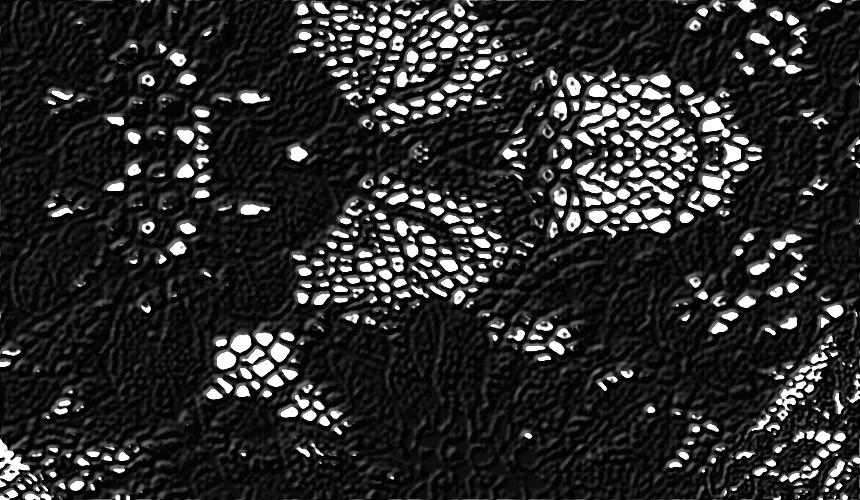
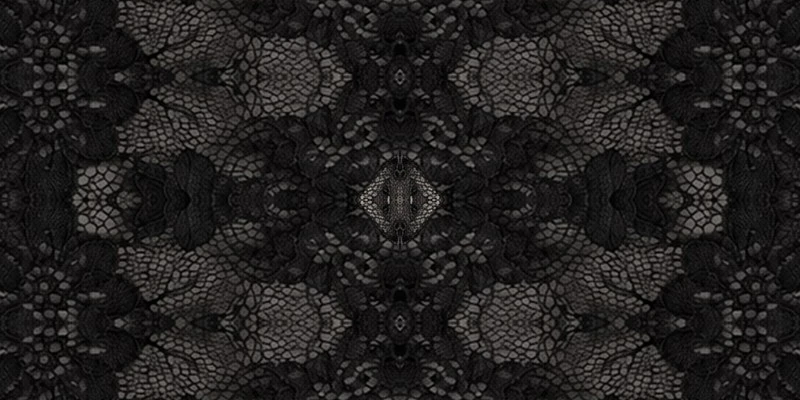
Главная: кружево в буквах — настоящее фото конверта, просветы чуть светлее нитей (#19)
Claude-Session: https://claude.ai/code/session_01BRbWv3crrXP3ALiHEmUihg

diff --git a/index.html b/index.html
@@ -27,10 +27,10 @@ a{color:inherit;text-decoration:none}
 .top nav a{transition:filter .25s,opacity .25s}
 @media (hover:hover){.top:has(a:hover) a:not(:hover){filter:blur(2px);opacity:.5}}
 
-/* главная: слово portfolio из чёрного кружева конверта (home/lace.webp из contact/base.jpg: нити чёрные с рельефом, сквозь крупные дырки виден фон) */
+/* главная: слово portfolio из чёрного кружева конверта (home/lace.webp — кусок фото конверта из contact/base.jpg как есть, плитка с зеркальным повтором) */
 #home.on{display:grid;place-content:center;justify-items:center;gap:2dvh;padding:0 var(--m) var(--m);min-height:0}
 #home h1{font:900 clamp(64px,min(21vw,36dvh),360px)/.86 "Inter",sans-serif;letter-spacing:-.065em;padding:0 .06em .04em 0;color:transparent;
-  background:url(home/lace.webp?v=4) center/1.6em auto repeat;-webkit-background-clip:text;background-clip:text}
+  background:url(home/lace.webp?v=5) center/1.6em auto repeat;-webkit-background-clip:text;background-clip:text}
 #home p{display:flex;gap:2em;font-size:13px;text-transform:uppercase;letter-spacing:.06em;opacity:.55}
 
 /* страницы: главная и Artworks */
